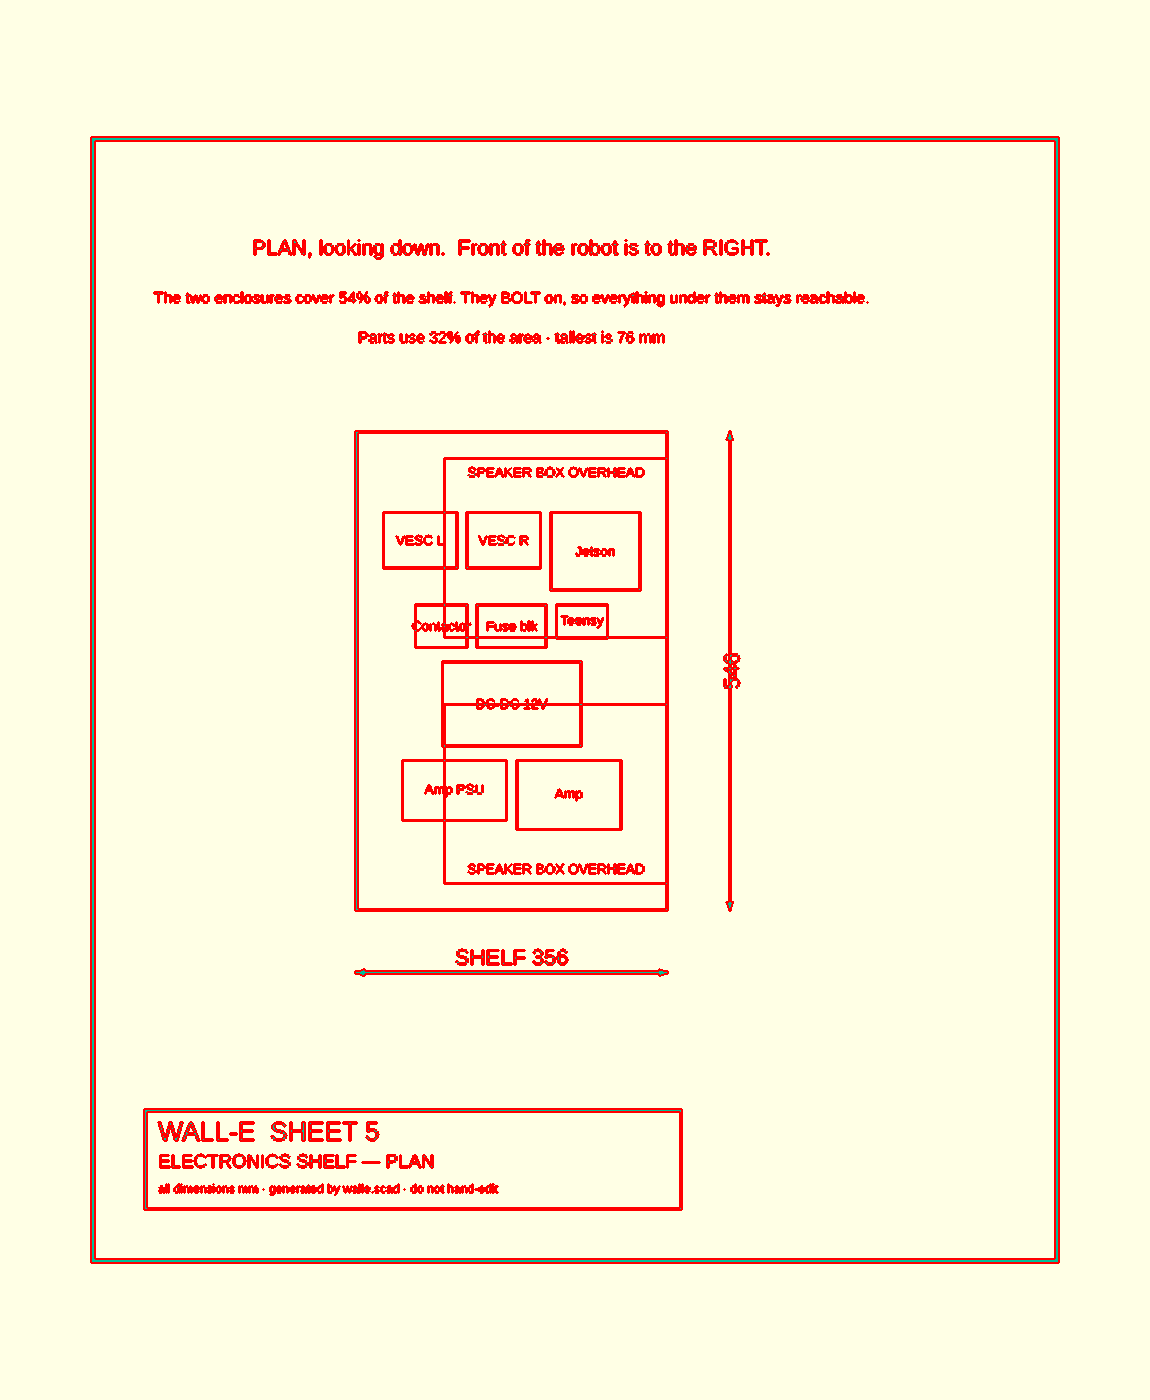
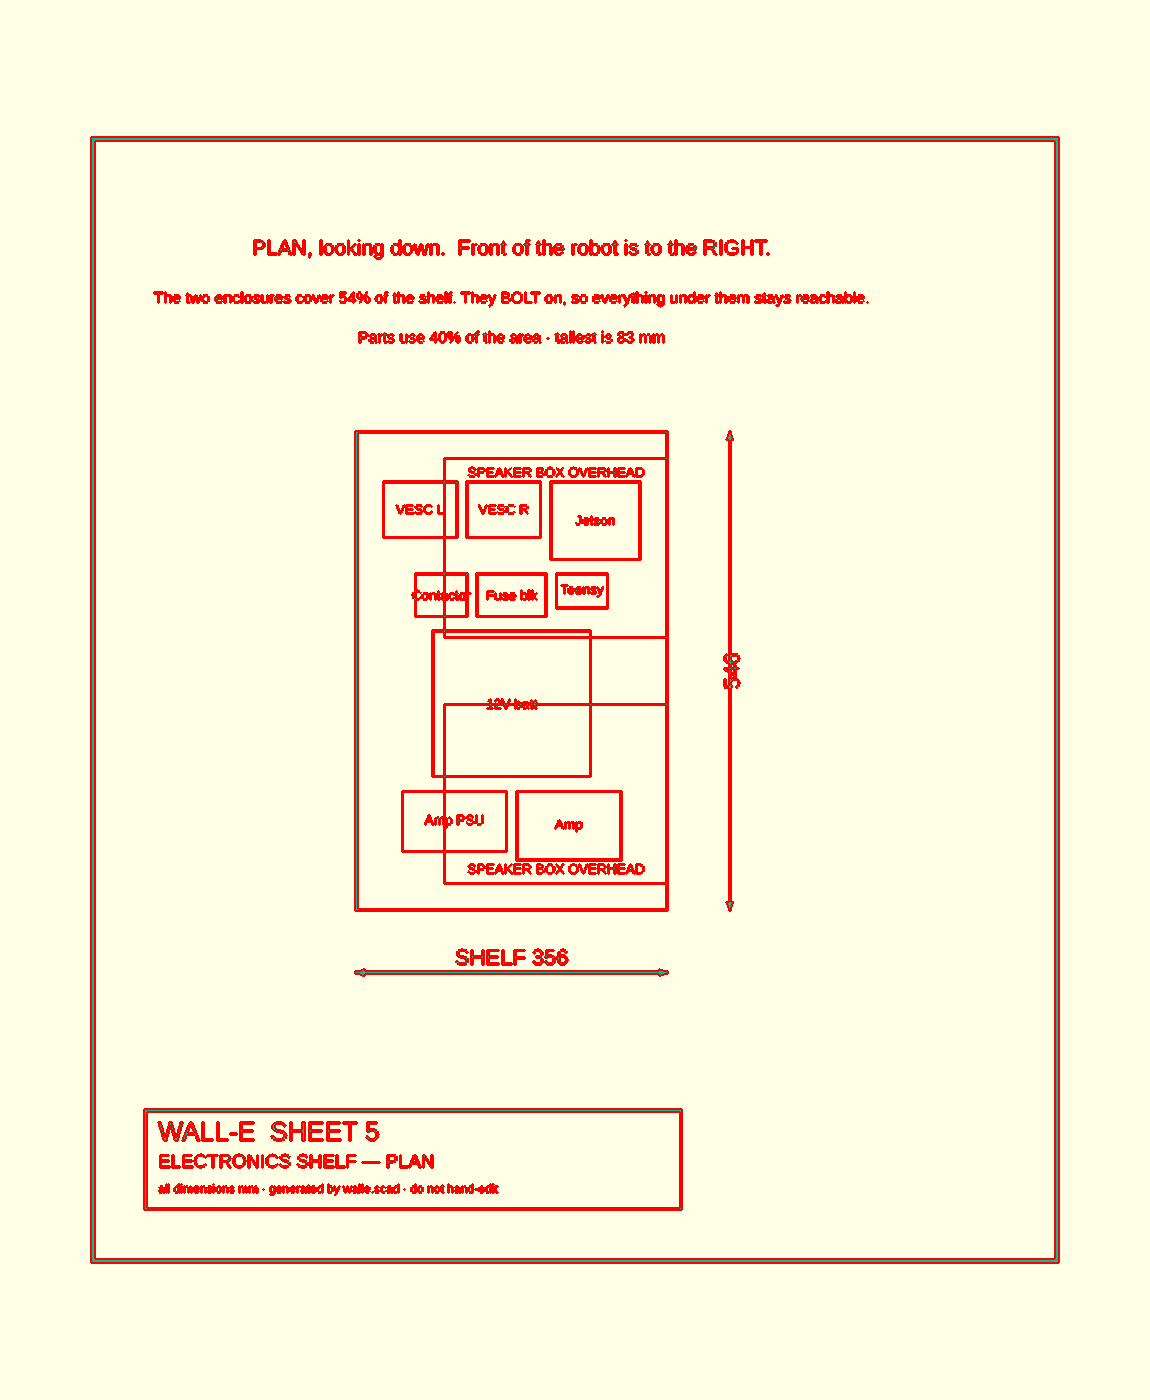
rev014: re-render, and refresh the README headline numbers against the model
The README table had drifted badly and most of it predates this change: width
700 not 672, mass 'estimated 100 kg' against a computed 88.9, centre of mass 349
not 318.2, tips forward 17.7 not 19.3, rails 240 clear not 268. All re-read from
the model rather than adjusted by hand. Shelf usage 32% -> 40%, speaker
enclosures 10.1 -> 9.8 litres.

05-bom.md: the foam-vs-plywood body table is marked as a snapshot from the day
that decision was made. Its right-hand column is not today's robot and was
being read as though it were.

render_all.sh output: the shelf view now shows the 12 V battery where the
48->12 V brick used to be, and the chest and section views pick up the shorter
speaker enclosures. 23 pod interface numbers agree, 53 guards pass.

Changed region(s): [[0.3348, 0.3379, 0.5783, 0.6143]]

diff --git a/WALL-E/README.md b/WALL-E/README.md
@@ -166,29 +166,29 @@ wheels.
 
 | Headline number | Value |
 |---|---|
-| Overall width | 700 mm (pods 500 apart, green plates stick out 100 each side) |
+| Overall width | 672 mm (pods 500 apart, green plates stick out either side) |
 | Overall height | 910 mm, to the top of the eye barrels |
 | Body | 430 long × 620 wide × 400 tall, floor at 335 mm |
-| Rails | 60×30×3 box, 550 long, 240 mm clear between them |
+| Rails | 60×30×3 box, 550 long, 268 mm clear between them |
 | Lowest point of the robot | 150 mm above the ground |
-| Whole robot, estimated | 100 kg — **every mass in the model is still a guess** |
-| Centre of mass | 349 mm up, and 4 mm forward of centre — the chest speakers |
-| Ground pressure | 0.184 kg/cm² over 546 cm² |
-| Tips forward at | 17.7° of pitch (backward 18.9°) |
-| Anti-tip castor catches at | 12.3° — so it catches 5.4° before the robot goes over |
+| Whole robot | 88.9 kg — **the pods, packs and electronics are still guesses** |
+| Centre of mass | 318.2 mm up, and 4.4 mm forward of centre — the chest speakers |
+| Ground pressure | 0.163 kg/cm² over 546 cm² |
+| Tips forward at | 19.3° of pitch (backward 20.7°) |
+| Anti-tip castor catches at | 12.3° — so it catches 7.0° before the robot goes over |
 | Steel needed | 1580 mm of 60×30×3 box tube |
 
 **The pod comes off with two bolts per side.** The frame reuses the four M12 holes that are
 already drilled in the green plates, so no new holes go into the built pods.
 
 The tipping numbers are only as good as the mass guesses feeding them. Weigh a pod, weigh a
-pack, and put the real numbers in the model before trusting 17.7°.
+pack, and put the real numbers in the model before trusting 19.3°.
 
 ### Four things the model settled
 
 **There is no room for electronics in the frame.** The interior is almost entirely battery:
 8 mm above the packs, 24 mm between them, 13 mm to the cross members. So everything moved
-onto a shelf inside the body. It fits four rows and uses 32 % of the shelf area, which
+onto a shelf inside the body. It fits four rows and uses 40 % of the shelf area, which
 leaves room for the speakers and an air path.
 
 ![the electronics shelf](cad/walle_shelf.png)
@@ -234,11 +234,11 @@ Two things the model flagged that are easy to miss:
 clashes, but they sit above it. So they **bolt** to the chest panel — glue them in and
 half the electronics becomes unreachable.
 
-**They cost 1.5° of forward tipping margin.** 7.4 kg at 584 mm, and both of them forward of
-centre, which pulls the centre of mass 4 mm towards the direction the robot already tips.
-Forward tipping goes from 19.2° to 17.7°, and the castor still catches 5.4° before that.
-It passes, but it is the second thing to push that number down, so weigh the real parts
-before adding a third.
+**They cost about 1.5° of forward tipping margin.** 7.3 kg at 584 mm, and both of them forward
+of centre, which pulls the centre of mass 4.4 mm towards the direction the robot already tips.
+With them fitted the robot tips forward at 19.3°, and the castor still catches 7.0° before
+that. It passes, but the speakers are one of several things pushing that number down, so weigh
+the real parts before adding another.
 
 ### The head
 

diff --git a/WALL-E/docs/05-bom.md b/WALL-E/docs/05-bom.md
@@ -254,6 +254,12 @@ carrying a 25 kg guess for foam and glass and the real plywood box works out at
 | Margin over the castor | 5.4° | **6.1°** |
 | Ground pressure | 0.184 kg/cm² | **0.163 kg/cm²** |
 
+> This table is a **snapshot from the day that decision was made**, kept because the
+> difference between the two columns is the argument. Several decisions have moved the robot
+> since, in both directions — the rigid head and the shorter speaker boxes took mass off, the
+> electronics battery put some back. For today's numbers run `cad/walle_frame.scad`, do not
+> read the right-hand column.
+
 | Qty | Part | Est. | Lead | Notes | Buy from — **read §9 first** |
 |---|---|---|---|---|---|
 | — | 12 mm birch plywood, about 1.7 m² | 130 | Stock | Floor, four walls, and the lid. Sizes come straight out of `cad/walle_frame.scad`. | timber yard |
